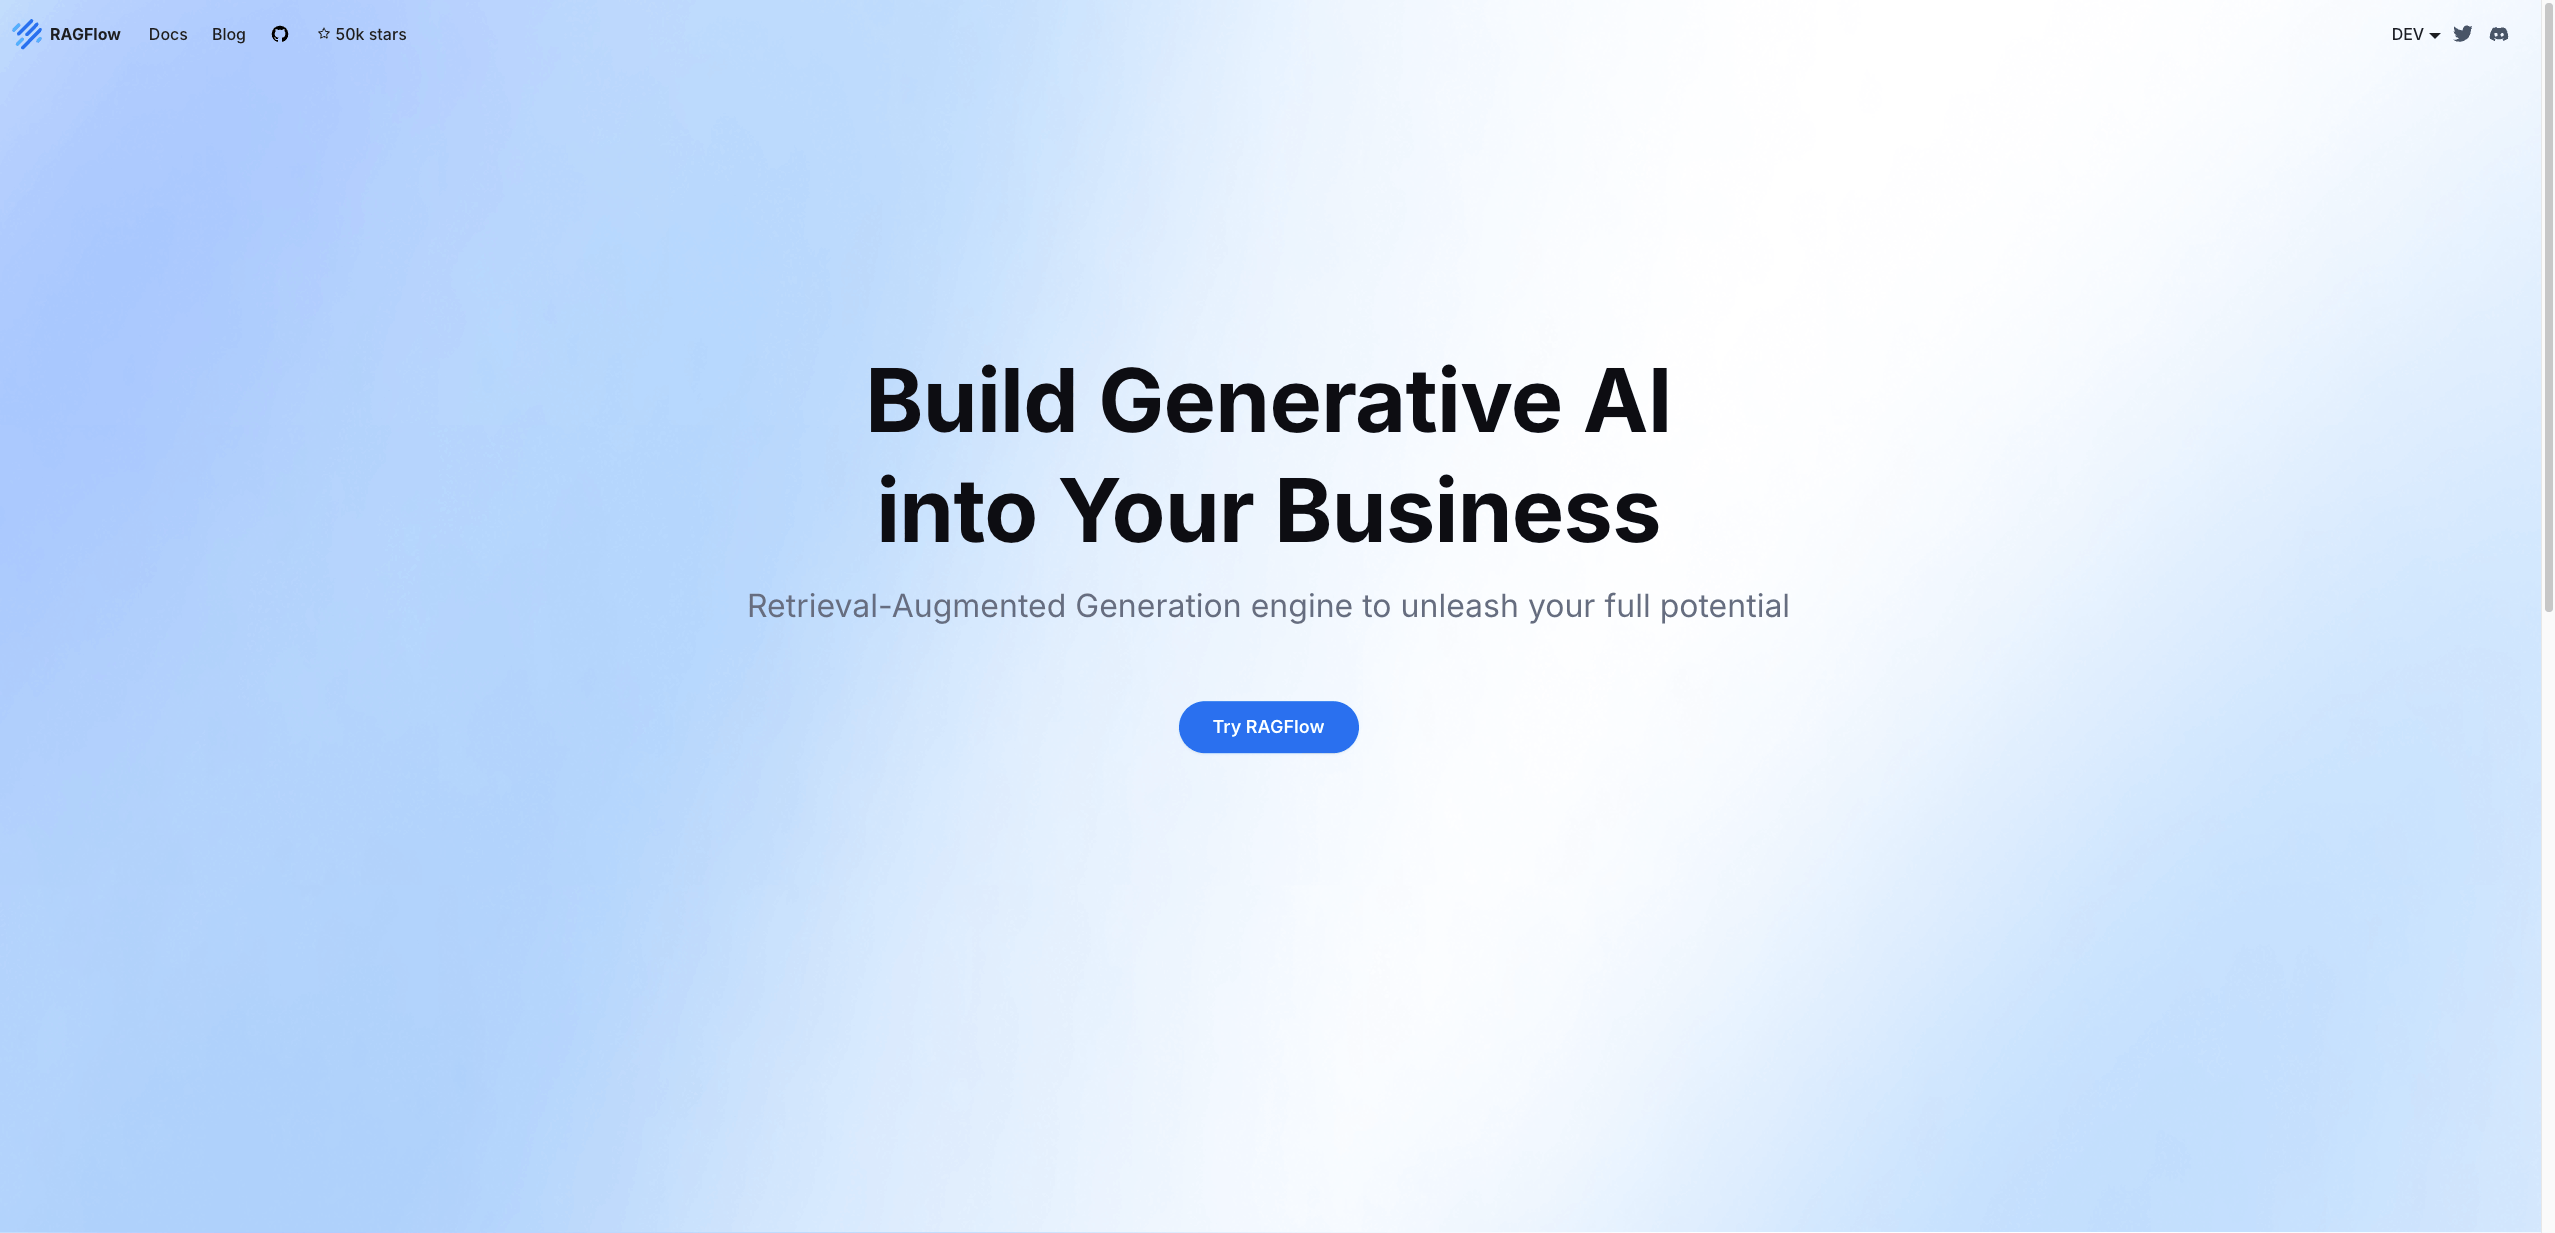
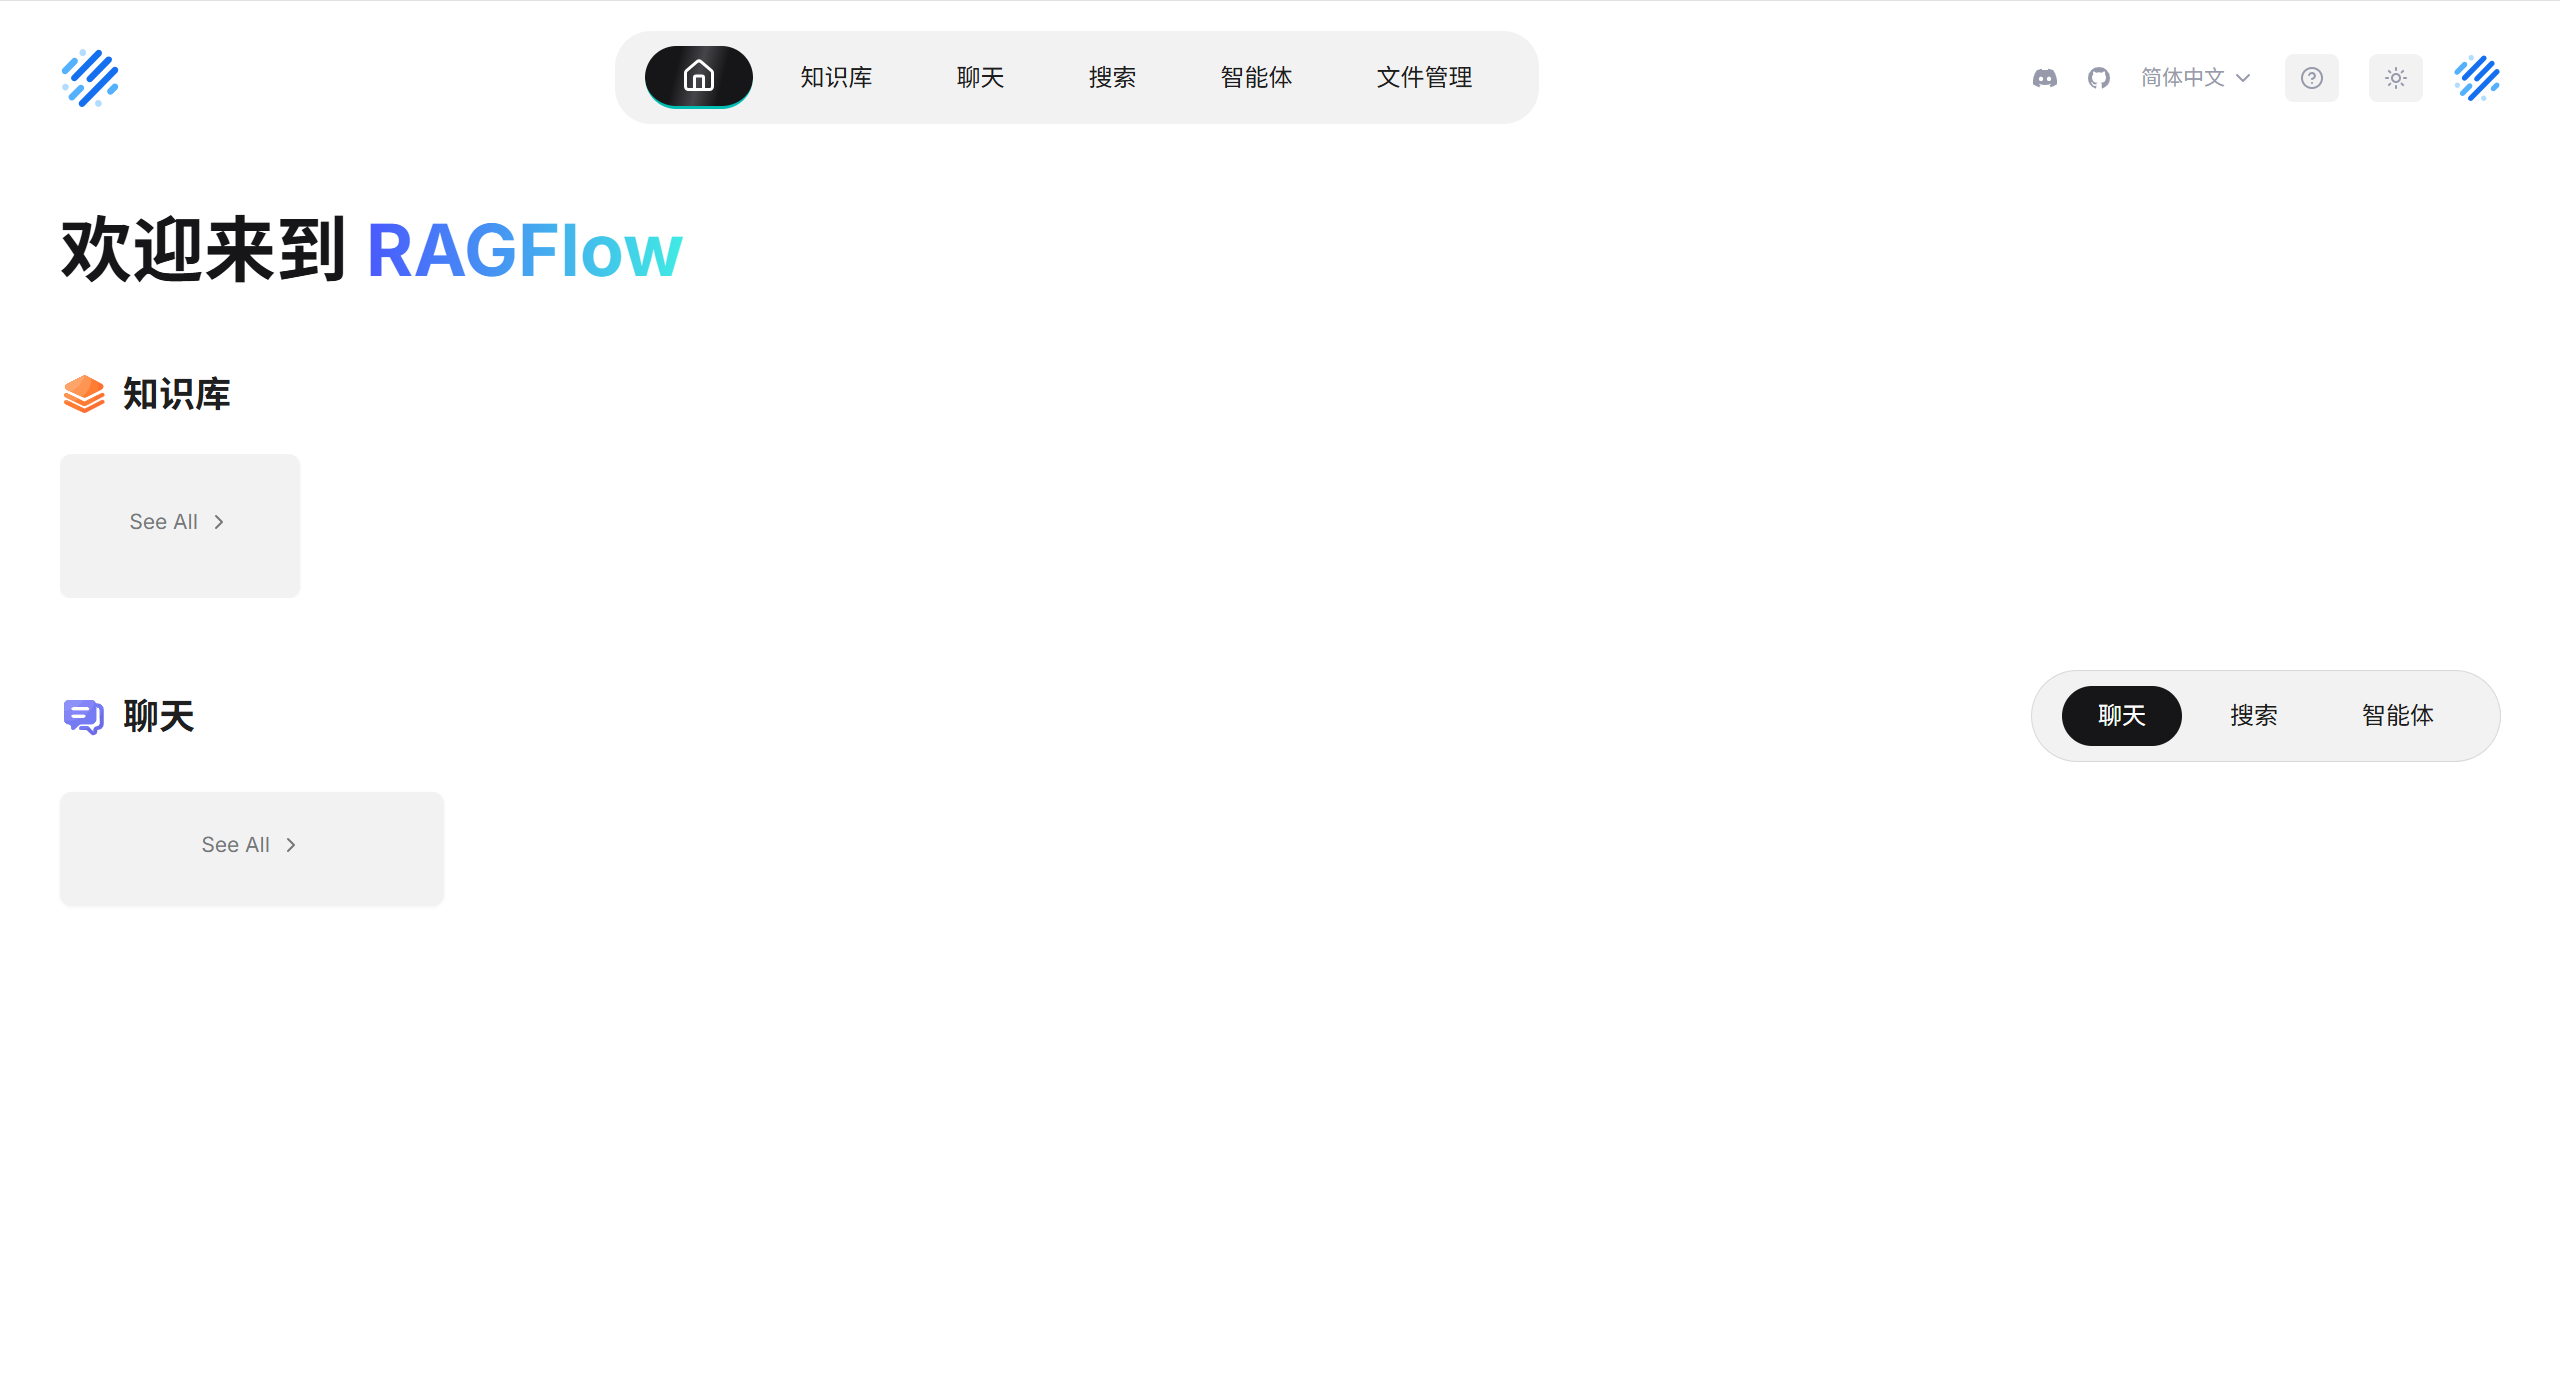
feat: enhance RagFlow documentation with installation guide and MinerU integration details

diff --git a/docs/zh/usage/plugin/RagFlow.md b/docs/zh/usage/plugin/RagFlow.md
@@ -1,9 +1,84 @@
-# RagFlow 简介
+## RAGFlow
 
-RAGFlow 是一款领先的开源检索增强生成（RAG）引擎，通过融合前沿的 RAG 技术与 Agent 能力，为大型语言模型提供卓越的上下文层。它提供可适配任意规模企业的端到端 RAG 工作流，凭借融合式上下文引擎与预置的 Agent 模板，助力开发者以极致效率与精度将复杂数据转化为高可信、生产级的人工智能系统。
+RAGFlow 是一款开源 RAG（Retrieval-Augmented Generation）引擎与应用平台，深度融合了深度文档理解、自动化 RAG 工作流与大模型调用，打通了复杂数据处理、知识检索、增强生成的全流程，旨在为企业及开发者提供一站式智能问答开发服务，并支持各类复杂场景下大模型的构建与应用落地。
 
-目前 OpenDataLab 团队正在开发 MinerU 在 Ragflow 中的插件，近期即将开源，**敬请期待**。
+目前，MinerU 已深度集成至 RAGFlow 知识库在线版本，作为内置 PDF 文档解析器，为用户知识库搭建提供专业、可靠的文档解析支持。本地部署版本部署使用方式详见下方使用教程。
 
-![](../../../assets/images/RagFlow_01.png)
+使用可访问：https://demo.ragflow.io/
 
-- 官网地址：https://ragflow.io/
+![img](../../../assets/images/RagFlow_01.png)
+
+## 使用教程：如何在 RAGFlow 中使用 MinerU
+
+### 一、安装配置
+
+首先，我们建议您通过 docker 的形式在本地部署 RagFlow 以方便使用 MinerU 插件作为解析工具。在安装完 RagFlow 后执行：
+
+1. **版本检查 ：**
+
+   确保你的RAGFlow版本 >= `v0.21.1`。
+
+2. **更新 .env 文件：**
+
+   为了确保服务能被平稳修改，建议先在 `cmd` 运行 `docker compose down` 停掉服务。
+
+   打开 `.env` 文件，在文件的末尾，添加这两行代码，保存文件。
+
+   ```Python
+   HF_ENDPOINT=https://hf-mirror.com
+   MINERU_EXECUTABLE=/ragflow/uv_tools/.venv/bin/mineru
+   ```
+
+3. **启动并进入容器：**
+
+   在 `cmd` 中，重新启动服务：`docker compose up -d`
+
+   等待服务全部 `Running` 或 `Healthy` 后，运行以下命令进入RAGFlow的核心容器：
+
+   ```Bash
+   docker compose exec ragflow-cpu bash
+   ```
+
+   （你的命令行提示符会从 `C:\...>` 变为 `root@...`）
+
+4. **在容器内下载 MinerU 模型：**
+
+    在容器内部，依次运行以下 5 条命令
+
+   ```Bash
+   mkdir uv_tools
+   cd uv_tools
+   uv venv .venv
+   source .venv/bin/activate
+   uv pip install -U "mineru[core]" -i https://mirrors.aliyun.com/pypi/simple
+   ```
+
+5. **退出并重启：**
+
+   安装完成后，输入 `exit` 并按回车。
+
+   运行重启命令，让 RAGFlow 加载刚装好的 MinerU
+
+   ```Bash
+   docker compose restart ragflow-cpu
+   ```
+
+### 二、使用入口
+
+在本地部署完毕后，要启用 MinerU，您需要在进入 RagFlow 特定知识库的配置页面并选择 MinerU 作为默认的 PDF 解析器。（注：RagFlow 在线版中已经内置了 MinerU 插件为您提供了高级的 PDF 文件解析能力，使用方式与此一致。）
+
+**入口和配置步骤：**
+
+1. **进入知识库配置：**
+   1. 首先，在您的知识库管理界面，选择您需要配置的特定知识库（例如图示中的 "content" 知识库）。
+   2. 在知识库详情页面的左侧导航栏中，点击【**配置**】选项卡。
+2. **定位 PDF 解析器设置：**
+   1. 向下滚动页面，找到“**Ingestion pipeline**”（摄取管道）设置部分。
+   2. 在此部分中，您会看到一个名为【**PDF解析器**】（PDF Parser）的选项。
+3. **选择 MinerU：**
+   1. 点击【PDF解析器】旁边的下拉菜单。
+   2. 从可用选项中，选择【**MinerU**】。
+4. **保存修改：**
+   1. 完成选择后，请务必点击页面底部的【**保存**】按钮，以使更改生效。
+
+![img](../../../assets/images/RagFlow_02.png)